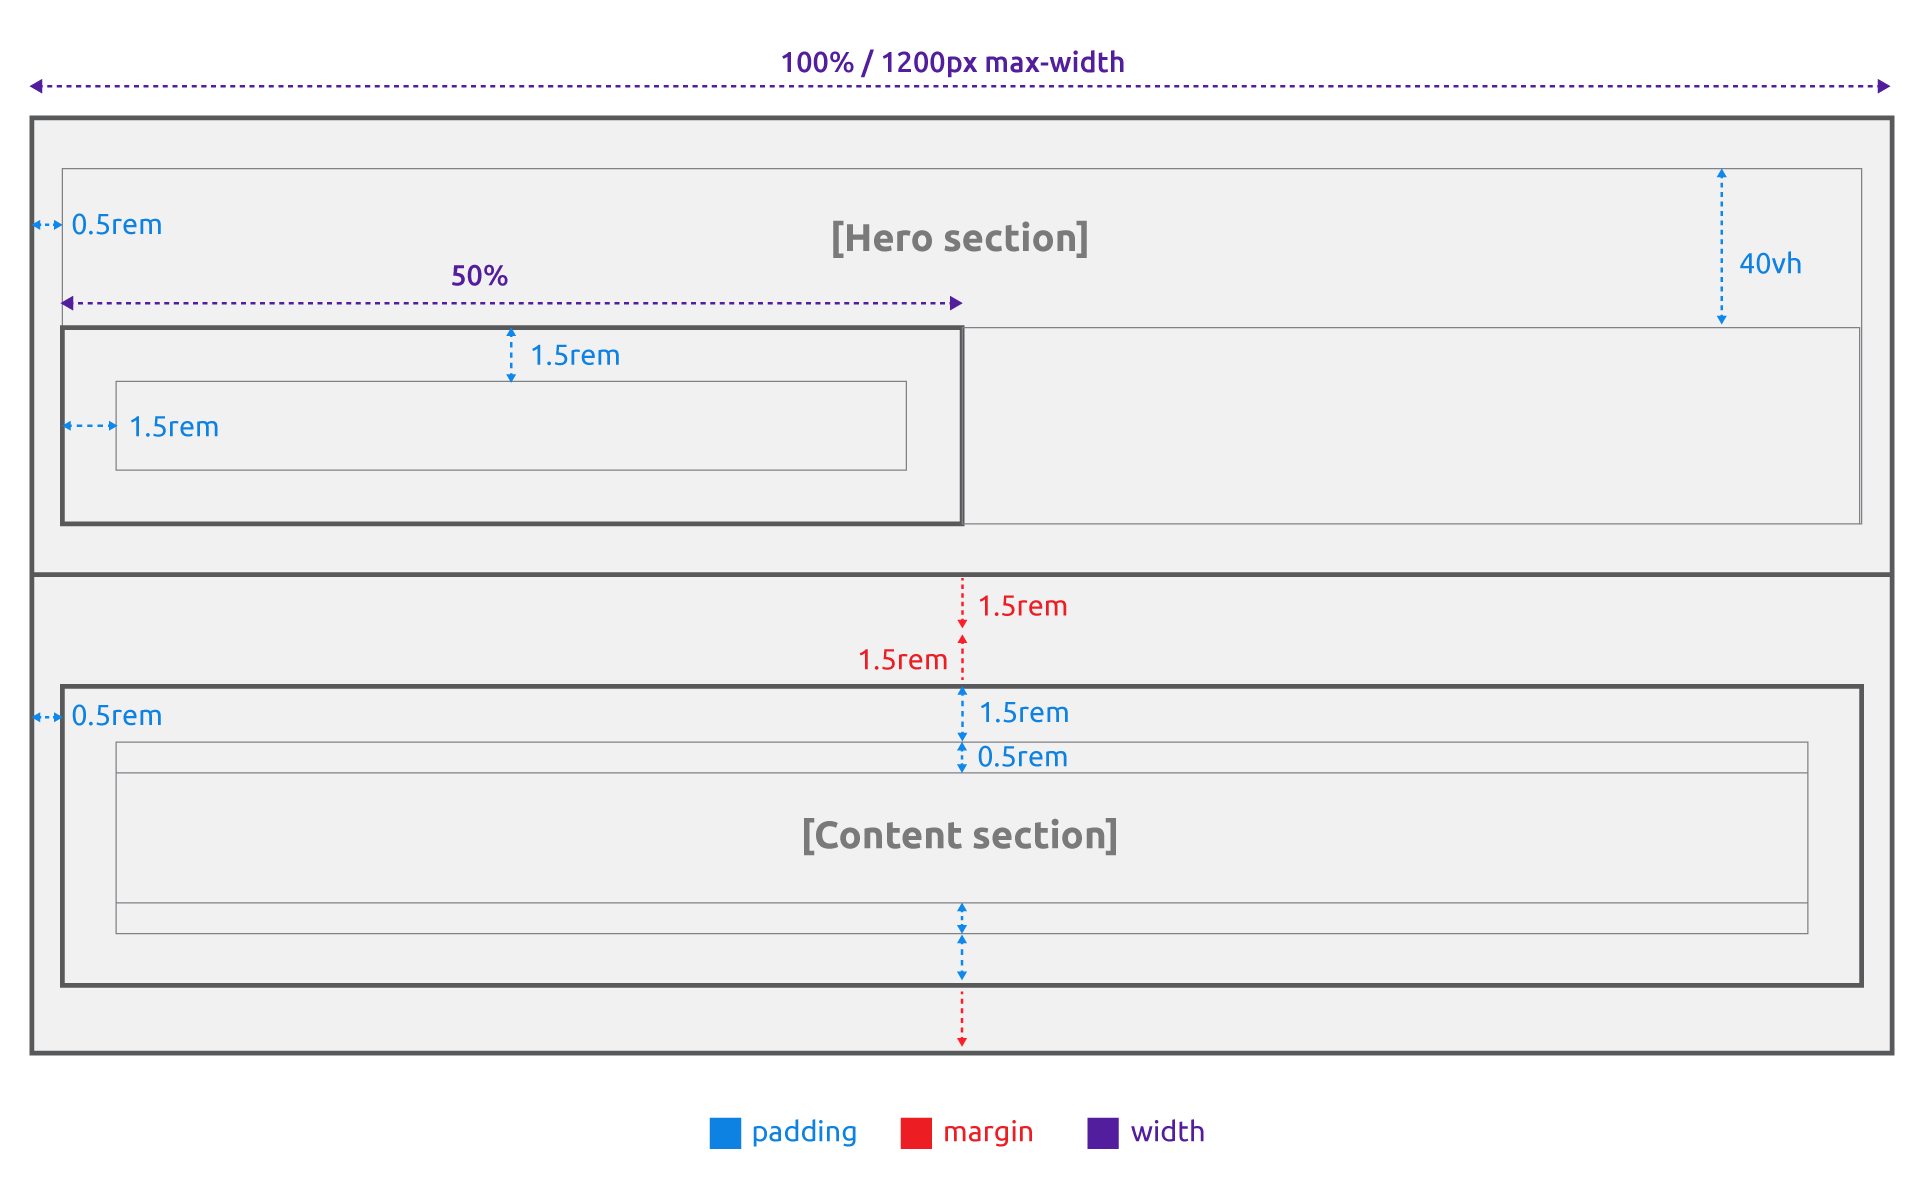
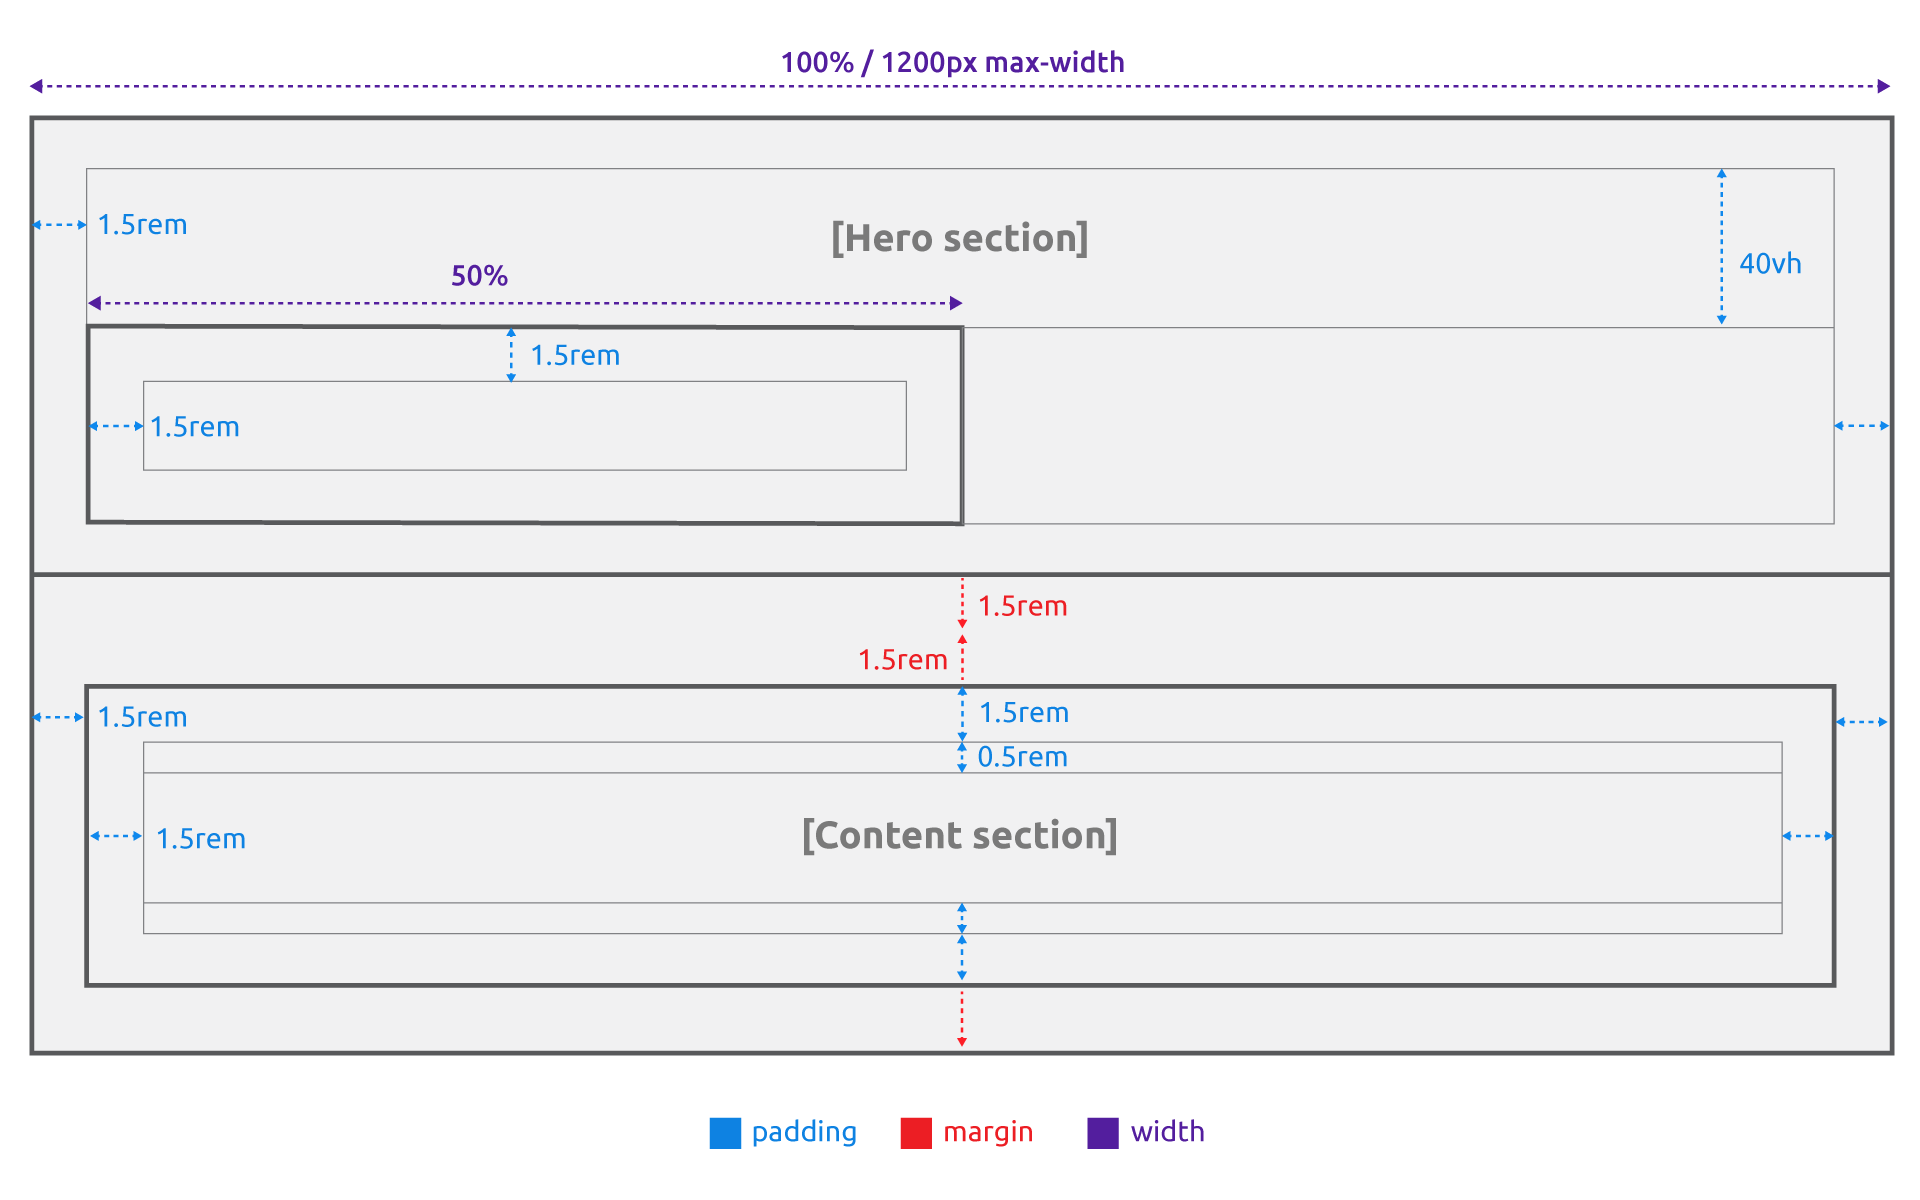
fixed homepage spacing

diff --git a/homedemo.html b/homedemo.html
@@ -168,7 +168,7 @@
     </header>
 
 
-    <div class="hero-container container-fluid mb-4" style="">
+    <div class="hero-container container-fluid mb-4 p-4" style="">
         <div class="container-fluid px-2" style="max-width:1200px">
             <div class="row">
                 <div class="col-lg-6 p-4 w-bg">
@@ -181,7 +181,7 @@
         </div>
     </div>
 
-    <div class="container-fluid p-2" style="max-width:1200px">
+    <div class="container-fluid p-4" style="max-width:1200px">
         <div class="row l-bg my-4 p-4">
             <div class="col">
                 <div class="container-fluid py-2 px-0">
